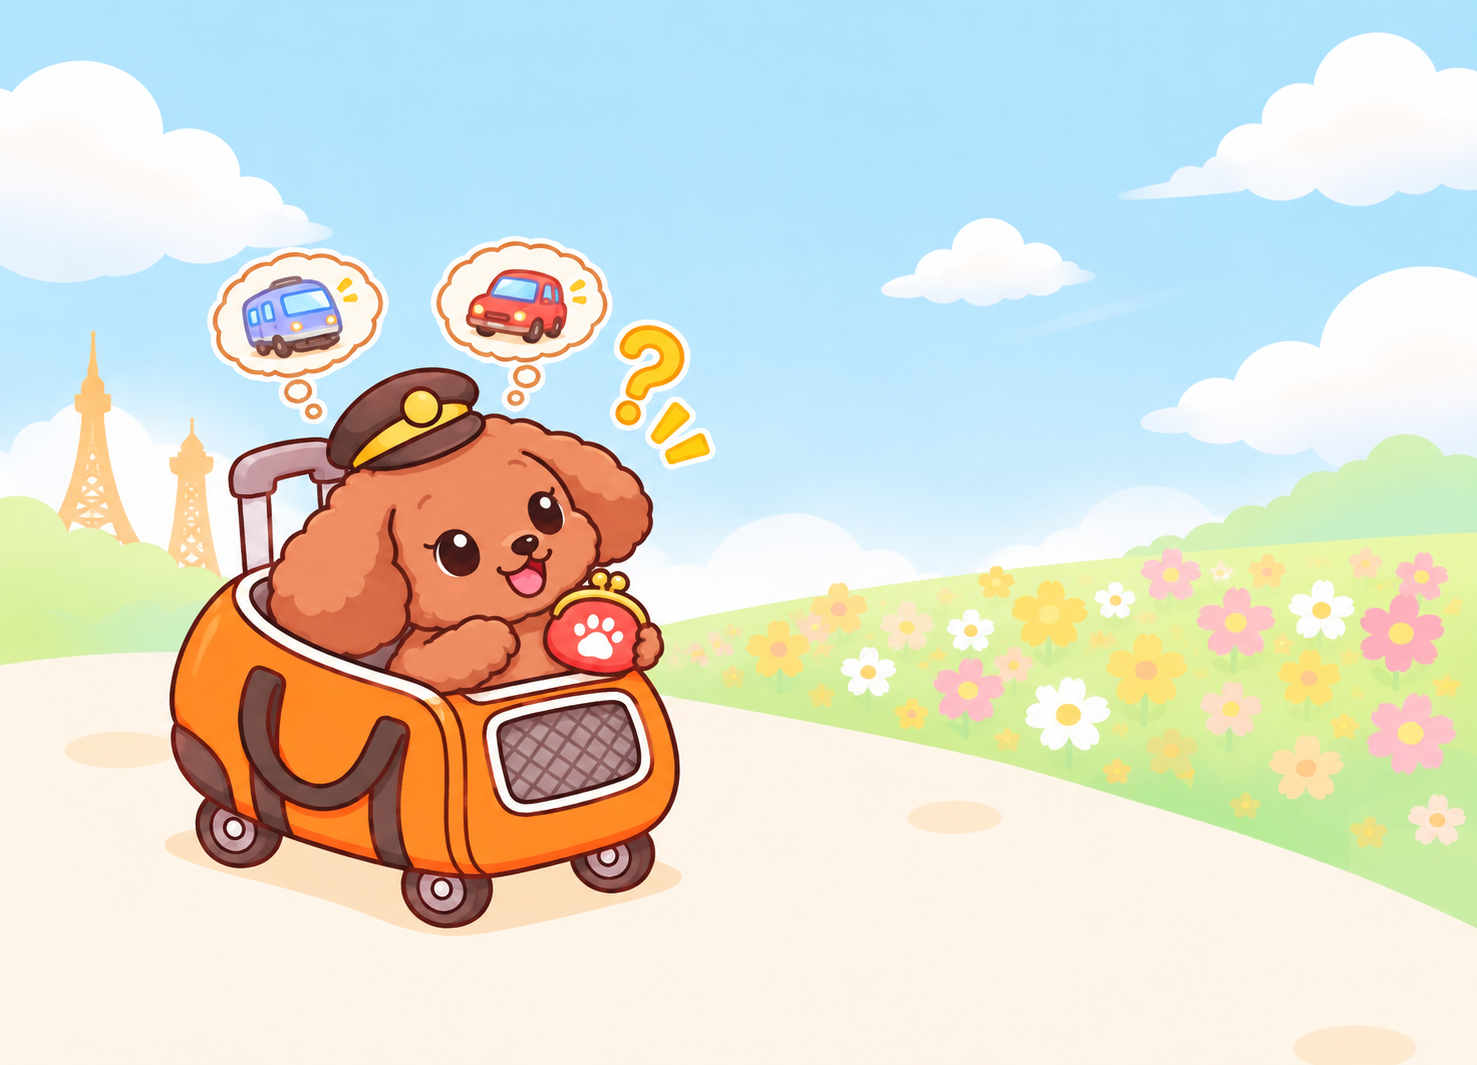
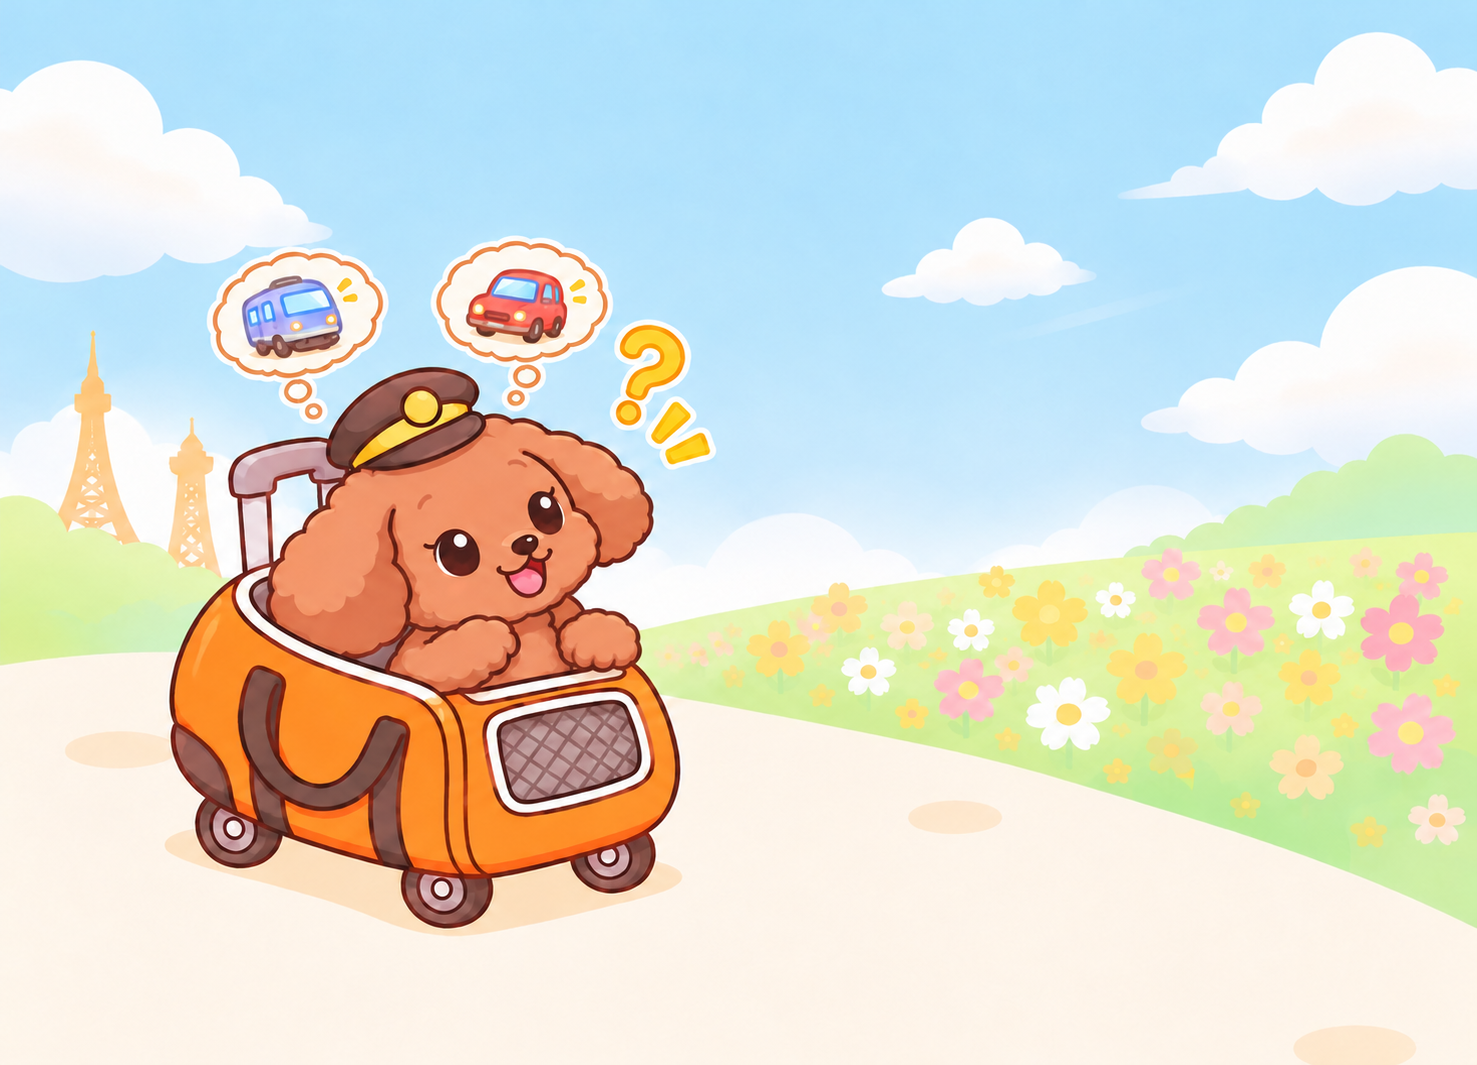
fix: ボタンの押し込み、差し込み画像、画面スクロールの微修正

diff --git a/app/javascript/controllers/geolocation_controller.js b/app/javascript/controllers/geolocation_controller.js
@@ -9,8 +9,15 @@ export default class extends Controller {
     if (!stationName) return
 
     this.inputTarget.value = stationName
-    this.inputTarget.focus()
     this.showStatus(`「${stationName}」を出発地にセットしました！🐾`, false)
+    this.scrollToBottom()
+  }
+
+  // 手入力のために入力欄をタップしてキーボードが出た時に一番下へスクロール
+  scrollOnFocus() {
+    setTimeout(() => {
+      this.scrollToBottom()
+    }, 300)
   }
 
   // 「いまいる場所から探す」ボタン押下時
@@ -76,11 +83,18 @@ export default class extends Controller {
 
       btn.addEventListener("click", () => {
         this.inputTarget.value = st.name
-        this.inputTarget.focus()
         this.showStatus(`「${st.name}」を出発地にセットしました！🐾`, false)
+        this.scrollToBottom()
       })
 
       this.resultsTarget.appendChild(btn)
+    })
+  }
+
+  scrollToBottom() {
+    window.scrollTo({
+      top: document.documentElement.scrollHeight,
+      behavior: "smooth"
     })
   }
 

diff --git a/app/services/openai/trip_planner_service.rb b/app/services/openai/trip_planner_service.rb
@@ -87,7 +87,7 @@ module Openai
 
     def system_prompt
       <<~PROMPT
-        あなたは日本の日帰り・短時間旅行に詳しい「しるべ駅長」の旅行プランナーです。
+        あなたは日本の日帰り・短時間旅行に詳しい「しるべぇ駅長」の旅行プランナーです。
         ユーザーの5つの条件に基づき、実在する日本のエリア・スポットで構成された魅力的な旅行プランを3案提案してください。
 
         # ルール
